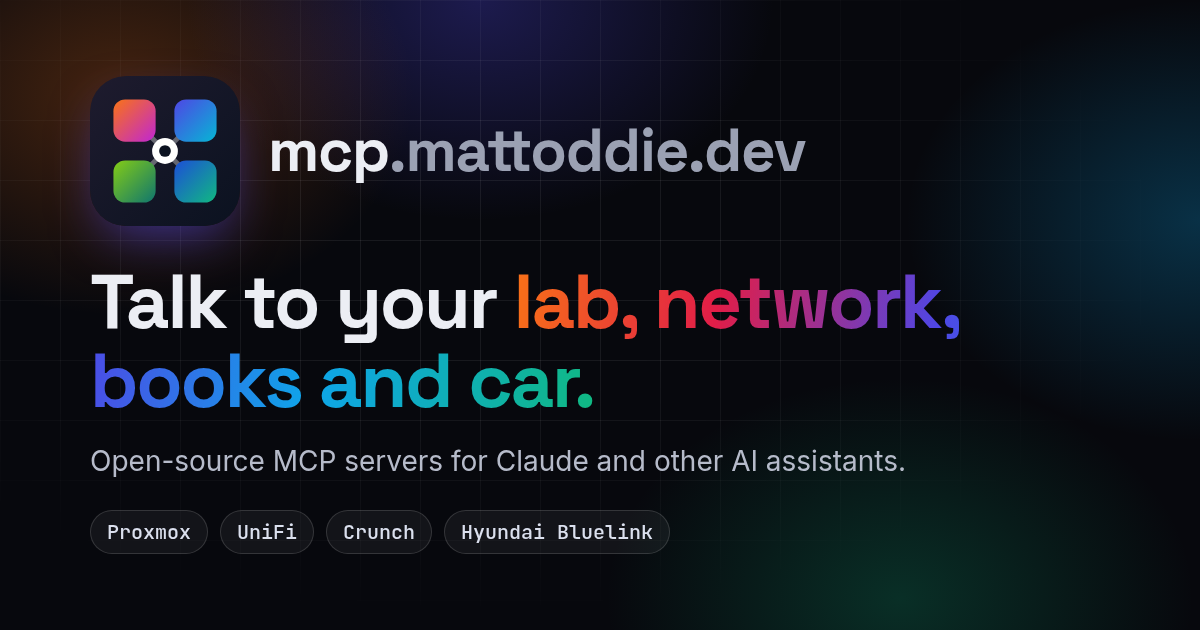
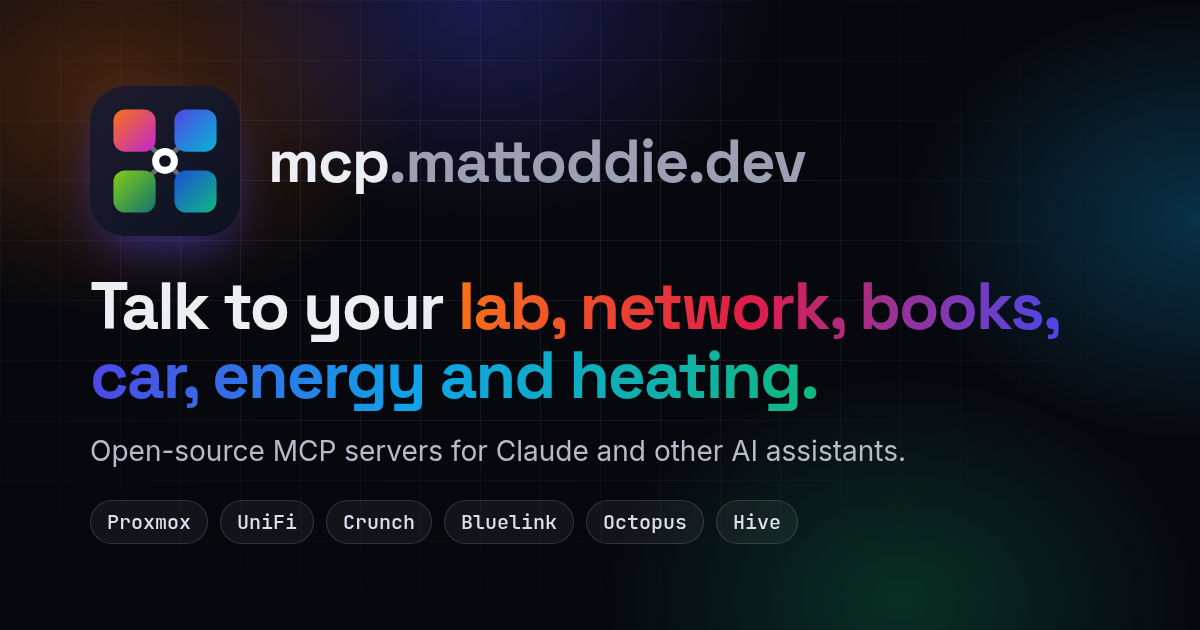
Add octopus-mcp and hive-mcp to the hub (#1)
Both servers are released, so list them with the others: cards in
servers.ts (their numbers come from the repos at build time), the
hero copy, the trademark disclaimer, the README table and the social
preview image.

diff --git a/scripts/og.html b/scripts/og.html
@@ -9,13 +9,13 @@ body{width:1200px;height:630px;background:#07080d;color:#eceef4;font-family:Inte
 .row{display:flex;align-items:center;gap:28px}
 .row img{border-radius:36px;box-shadow:0 20px 50px -12px rgba(79,70,229,.6)}
 .name{font:700 60px 'Space Grotesk';letter-spacing:-.02em}.name span{color:#9ba1b3}
-h1{font:700 76px/1.04 'Space Grotesk';letter-spacing:-.03em;margin-top:36px}
+h1{font:700 66px/1.04 'Space Grotesk';letter-spacing:-.03em;margin-top:36px}
 h1 span{background:linear-gradient(100deg,#f97316,#e11d48 22%,#4f46e5 45%,#0ea5e9 70%,#10b981);-webkit-background-clip:text;color:transparent}
 p{font-size:28px;color:#b6bbca;margin-top:24px}
 .tags{display:flex;gap:12px;margin-top:32px}
 .tags b{font:500 20px 'JetBrains Mono';padding:8px 16px;border:1px solid rgba(255,255,255,.14);border-radius:999px;background:rgba(255,255,255,.05);color:#dbe0ee}
 </style></head><body><div class="bg"></div><div class="grid"></div>
 <div class="c"><div class="row"><img src="../public/favicon.svg" width="150" height="150" alt=""><div class="name">mcp<span>.mattoddie.dev</span></div></div>
-<h1>Talk to your <span>lab, network, books and car.</span></h1>
+<h1>Talk to your <span>lab, network, books, car, energy and heating.</span></h1>
 <p>Open-source MCP servers for Claude and other AI assistants.</p>
-<div class="tags"><b>Proxmox</b><b>UniFi</b><b>Crunch</b><b>Hyundai Bluelink</b></div></div></body></html>
+<div class="tags"><b>Proxmox</b><b>UniFi</b><b>Crunch</b><b>Bluelink</b><b>Octopus</b><b>Hive</b></div></div></body></html>

diff --git a/src/servers.ts b/src/servers.ts
@@ -60,4 +60,22 @@ export const servers: Server[] = [
     question: "Is the car charged, and is it locked?",
     colors: ["#1d4ed8", "#0ea5e9", "#10b981"],
   },
+  {
+    repo: "octopus-mcp",
+    subject: "energy",
+    product: "Octopus Energy",
+    category: "Energy",
+    summary: "Smart meter usage, tariffs and Agile prices, bills, Intelligent Octopus and Saving Sessions.",
+    question: "When's the cheapest time to run the dishwasher today?",
+    colors: ["#fde047", "#f59e0b", "#c2410c"],
+  },
+  {
+    repo: "hive-mcp",
+    subject: "heating",
+    product: "Hive",
+    category: "Heating",
+    summary: "Check and control the thermostat, hot water, radiator valves, plugs and lights.",
+    question: "Warm the living room to 21° for an hour.",
+    colors: ["#fbbf24", "#f97316", "#b91c1c"],
+  },
 ];

diff --git a/README.md b/README.md
@@ -18,6 +18,8 @@
 | [unifi-mcp](https://unifi-mcp.mattoddie.dev) | Ubiquiti UniFi network |
 | [crunch-mcp](https://crunch-mcp.mattoddie.dev) | Crunch Accounting books |
 | [bluelink-mcp](https://bluelink-mcp.mattoddie.dev) | Hyundai, through Bluelink |
+| [octopus-mcp](https://octopus-mcp.mattoddie.dev) | Octopus Energy account and smart meter |
+| [hive-mcp](https://hive-mcp.mattoddie.dev) | Hive heating and hot water |
 
 ## How it works
 
